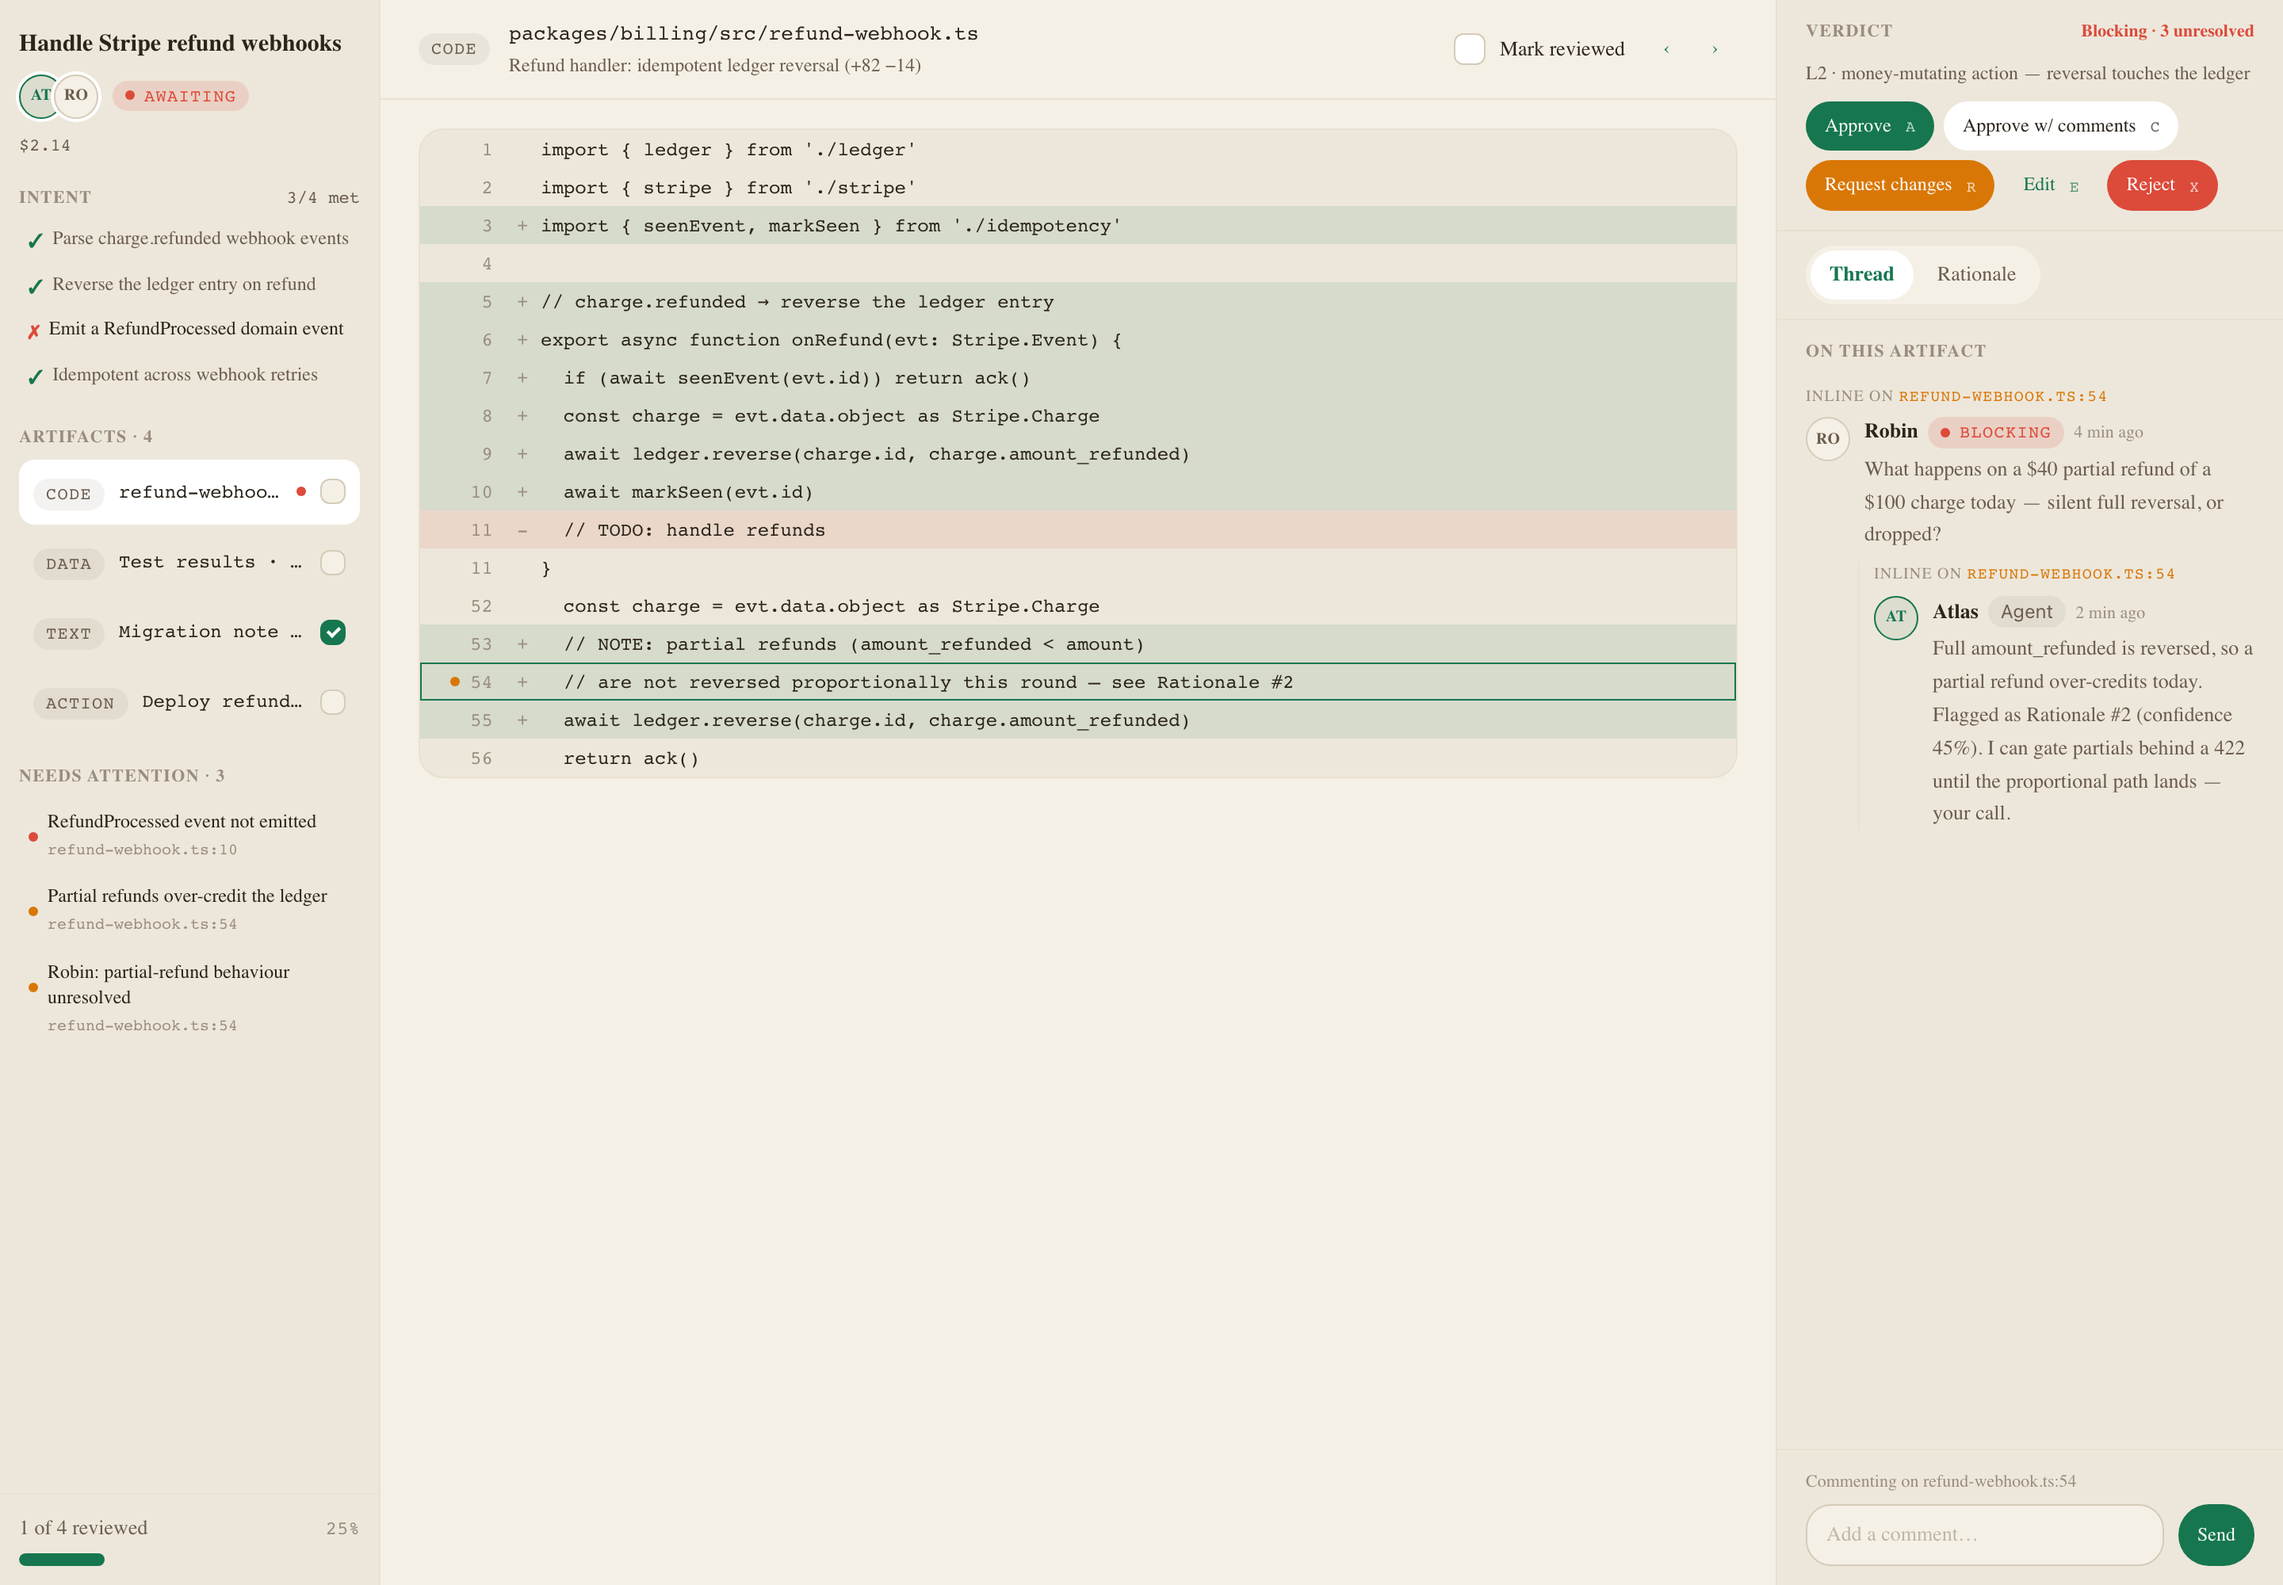
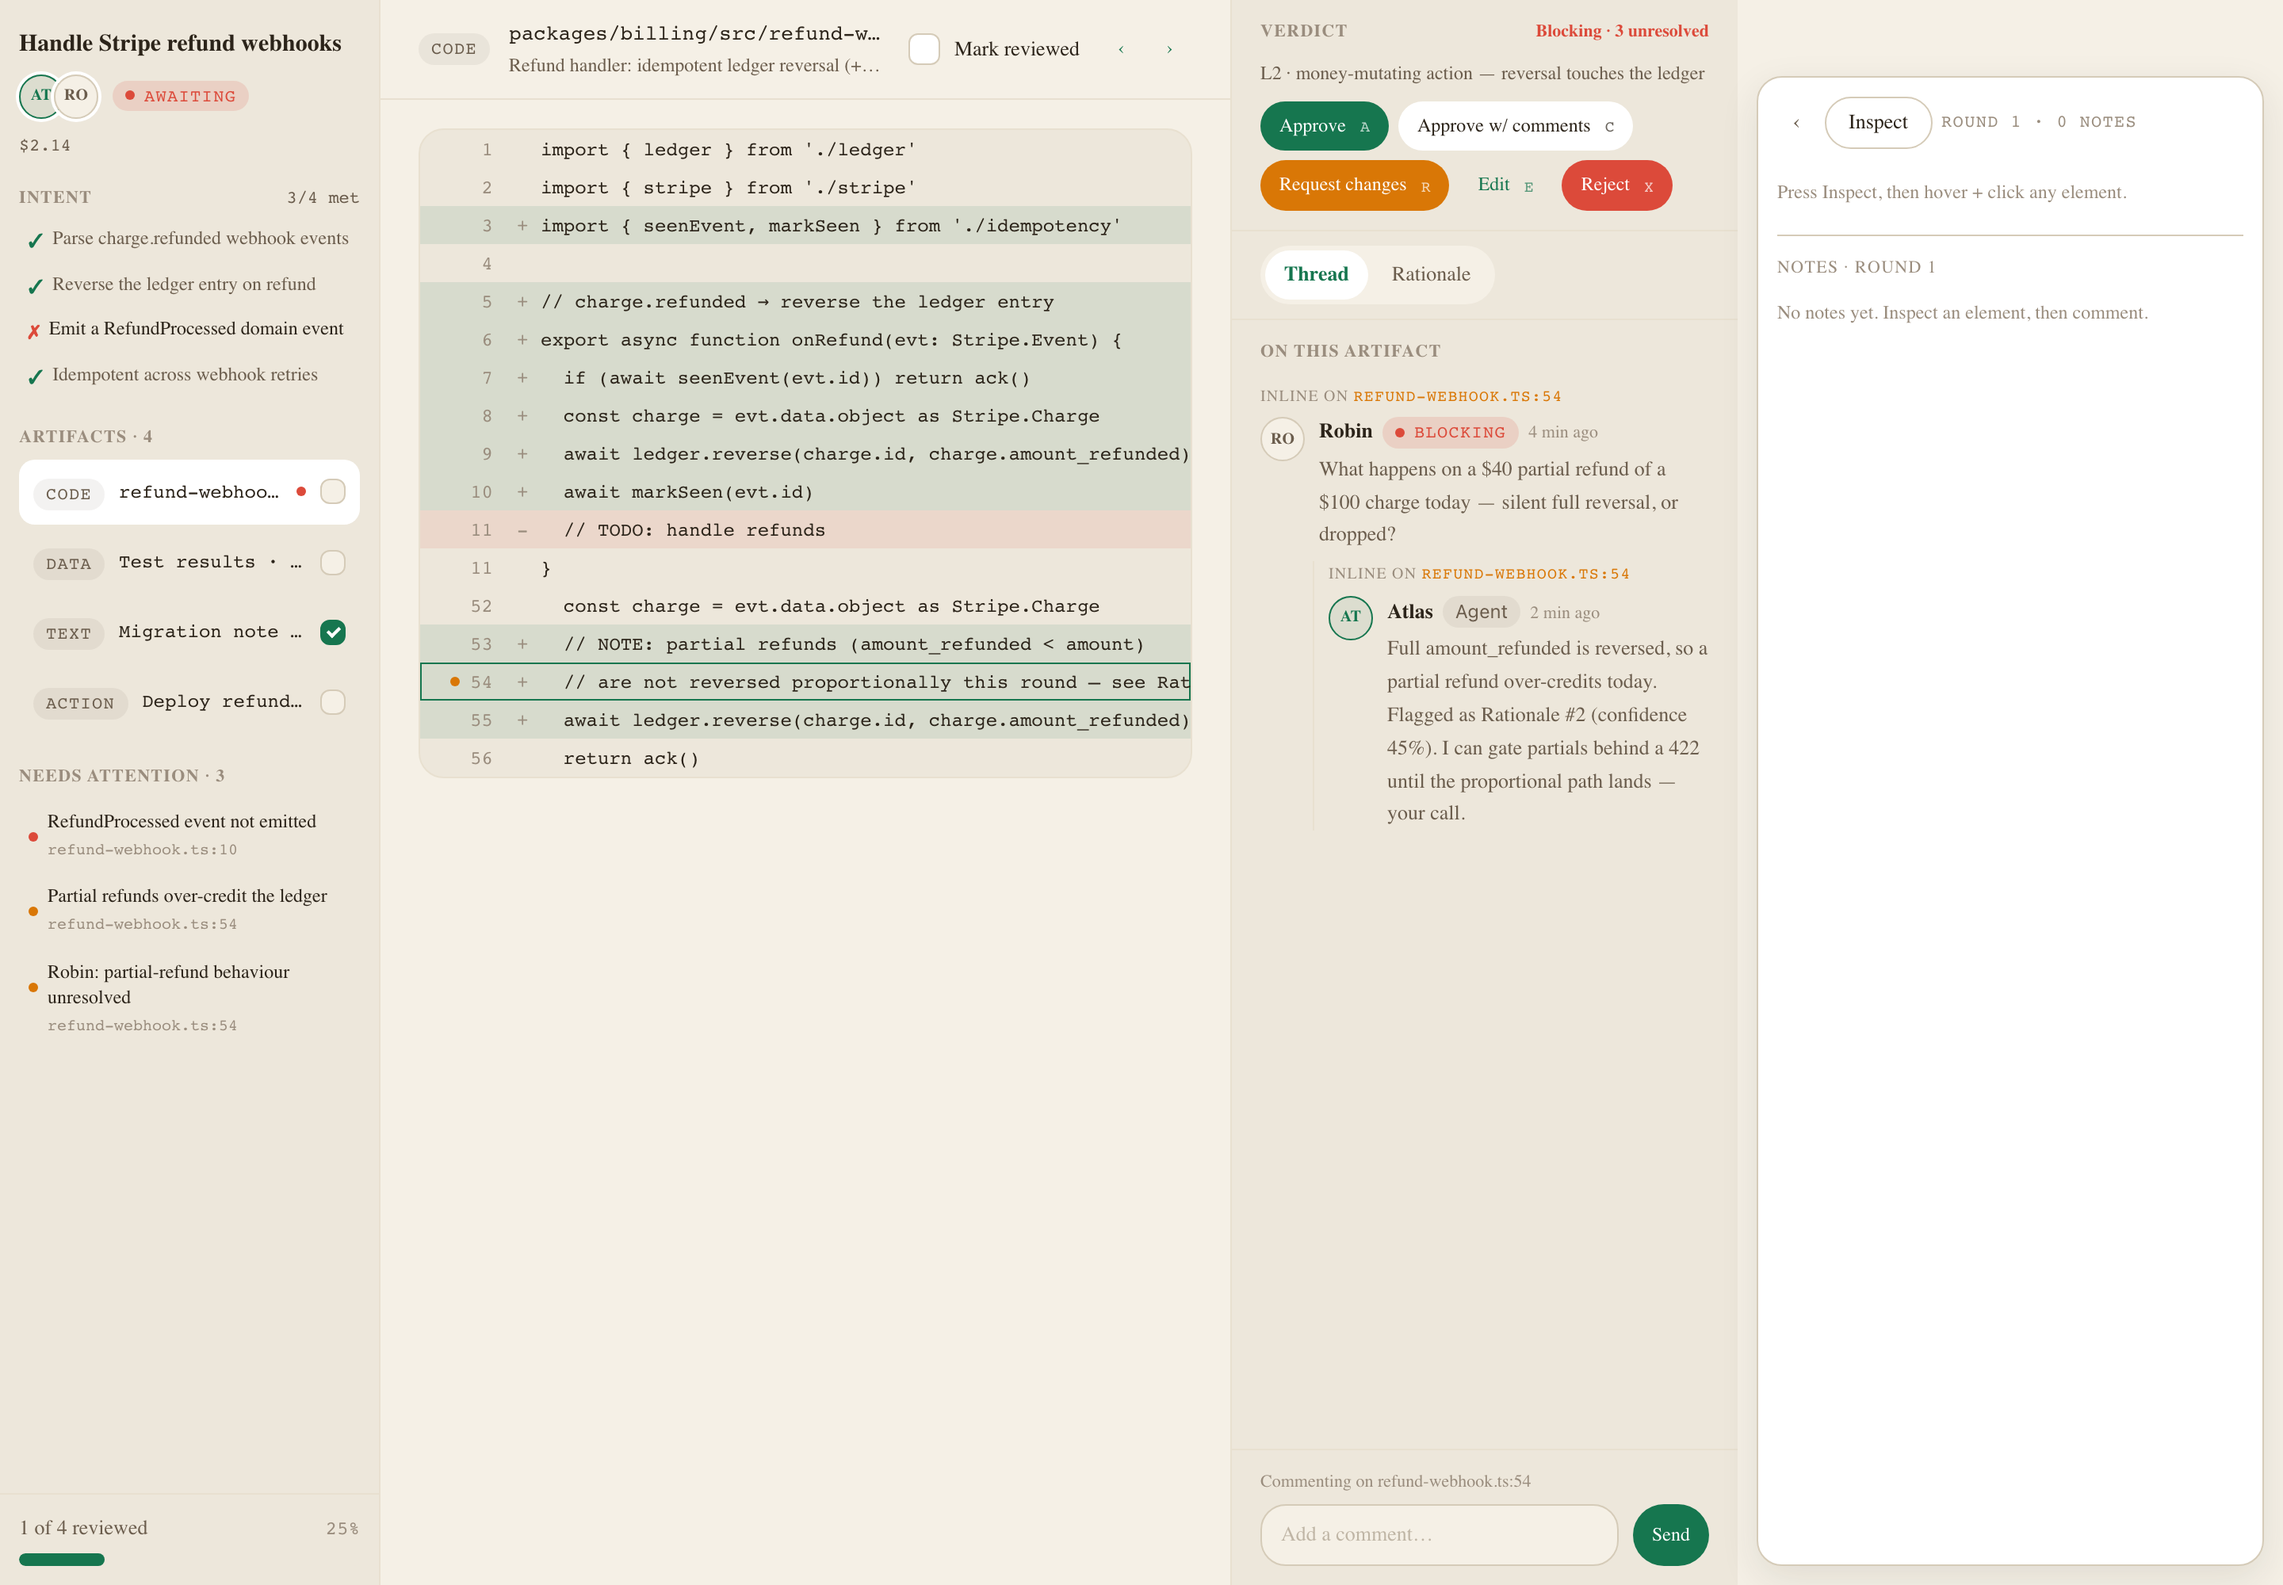
design(AL1): classify review stories (group: Conversations) + scan web/src for Tailwind
Post-rebase fixups for the AJ6 grouped catalog + AJ7 viewer:
- Review stories live at pages/review/ (no path-derived domain) → add
  group: "Conversations" so the grouped catalog discovers + routes them.
- Viewer Tailwind content never scanned web/src, so page-unique classes
  (fixed pane widths) weren't generated → add ../../web/src/** glob.
Re-captured screenshots from the rebased viewer.

diff --git a/packages/web/src/pages/review/ReviewLedger.stories.tsx b/packages/web/src/pages/review/ReviewLedger.stories.tsx
@@ -8,7 +8,9 @@
 import type { JSX } from "react";
 import { ReviewLedger } from "./ReviewLedger.js";
 
-export default { title: "Page: Review/C — Reasoning Ledger" };
+// group: a Review is a conversation over a Subject (IA §D) → Conversations domain.
+// `pages/review/` carries no path-derived group, so this escape-hatch is required.
+export default { title: "Page: Review/C — Reasoning Ledger", group: "Conversations" };
 
 /** Default awaiting-verdict view: confidence-ascending, the 45% row expanded. */
 export function Populated(): JSX.Element {

diff --git a/packages/web/src/pages/review/ReviewBrief.stories.tsx b/packages/web/src/pages/review/ReviewBrief.stories.tsx
@@ -8,7 +8,9 @@
 import type { JSX } from "react";
 import { ReviewBrief } from "./ReviewBrief";
 
-export default { title: "Page: Review/A — Verdict Brief" };
+// group: a Review is a conversation over a Subject (IA §D) → Conversations domain.
+// `pages/review/` carries no path-derived group, so this escape-hatch is required.
+export default { title: "Page: Review/A — Verdict Brief", group: "Conversations" };
 
 function Frame({ children }: { children: JSX.Element }): JSX.Element {
 	return <div style={{ height: "100vh" }}>{children}</div>;

diff --git a/packages/design-system/viewer/tailwind.config.ts b/packages/design-system/viewer/tailwind.config.ts
@@ -10,6 +10,11 @@ export default {
 		resolve(dir, "index.html"),
 		resolve(dir, "main.tsx"),
 		resolve(dir, "../src/**/*.{ts,tsx}"),
+		// AL1: web-package stories (shell, components, pages, layouts, settings) are
+		// discovered in the viewer but their Tailwind classes must also be scanned, or
+		// classes unique to a web story (e.g. fixed pane widths w-[240px]) never get
+		// generated — three-pane page variants then collapse to 0-width panes.
+		resolve(dir, "../../web/src/**/*.{ts,tsx}"),
 	],
 	theme: {
 		extend: {

diff --git a/packages/web/src/pages/review/ReviewBench.stories.tsx b/packages/web/src/pages/review/ReviewBench.stories.tsx
@@ -7,7 +7,9 @@
 import type { JSX } from "react";
 import { ReviewBench } from "./ReviewBench.js";
 
-export default { title: "Page: Review/B — Examination Bench" };
+// group: a Review is a conversation over a Subject (IA §D) → Conversations domain.
+// `pages/review/` carries no path-derived group, so this escape-hatch is required.
+export default { title: "Page: Review/B — Examination Bench", group: "Conversations" };
 
 export function Populated(): JSX.Element {
 	return <ReviewBench />;
